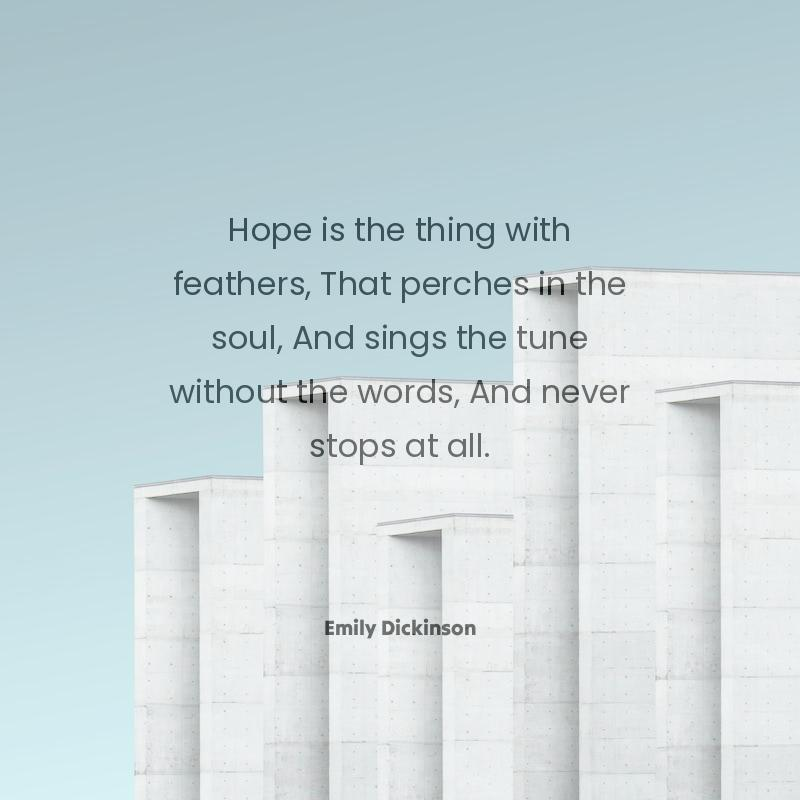
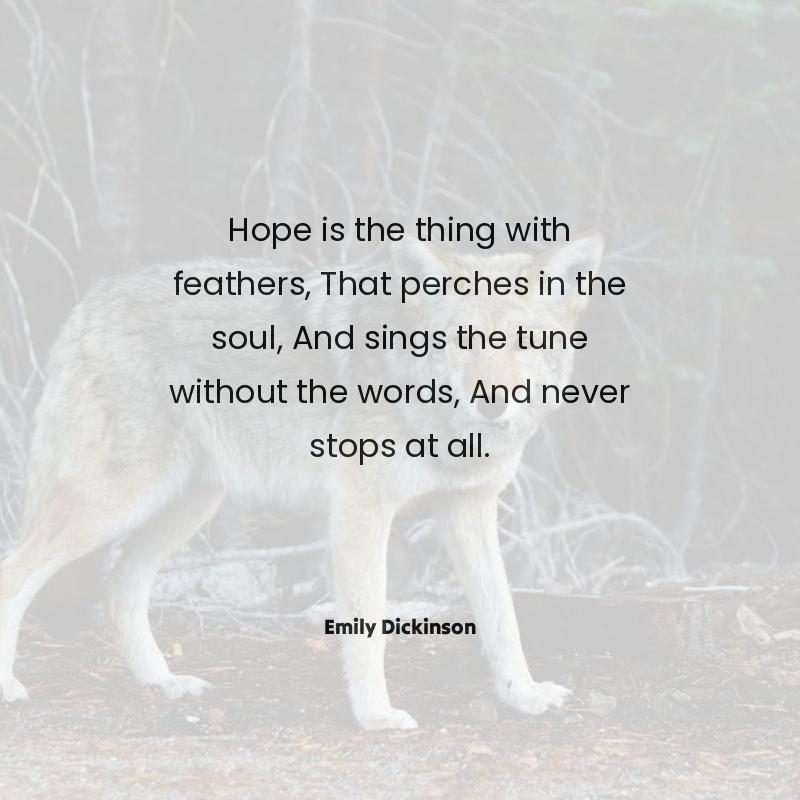
Program updated with def function and alternate to unsplash img link

diff --git a/eng-qt.py b/eng-qt.py
@@ -4,39 +4,43 @@ import random
 import textwrap
 
 # create image object with random background
-img_url = requests.get('https://source.unsplash.com/random/800x800?minimal').url
+img_url = requests.get('https://picsum.photos/800/800').url
 img = Image.open(requests.get(img_url, stream=True).raw)
-    
+
 # function to draw text on image
 def draw_text(text, subtext):
     # get font sizes based on image size
     width, height = img.size
     font_size = int(width / 25)
     subtext_font_size = int(font_size / 1.5)
-	
-    image_bg = Image.new('RGB', (width, height), color = (255, 255, 255))
+    
+    image_bg = Image.new('RGB', (width, height), color=(255, 255, 255))
     
     # set fonts
     font = ImageFont.truetype('./fonts/Poppins-Regular.ttf', font_size)
     subtext_font = ImageFont.truetype('./fonts/TiltWarp-Regular.ttf', subtext_font_size)
-
+    
     # create draw object
     draw = ImageDraw.Draw(image_bg)
-
+    
     # calculate text position to center it horizontally
-    text_width, text_height = draw.textsize(text, font=font)
+    text_bbox = draw.textbbox((0, 0), text, font=font)
+    text_width = text_bbox[2] - text_bbox[0]
+    text_height = text_bbox[3] - text_bbox[1]
     text_x = (width - text_width) / 2
     text_y = (height - text_height) / 2
-
+    
     # calculate subtext position to center it horizontally and put it below the main text
-    subtext_width, subtext_height = draw.textsize(subtext, font=subtext_font)
+    subtext_bbox = draw.textbbox((0, 0), subtext, font=subtext_font)
+    subtext_width = subtext_bbox[2] - subtext_bbox[0]
+    subtext_height = subtext_bbox[3] - subtext_bbox[1]
     subtext_x = (width - subtext_width) / 2
     subtext_y = text_y + text_height + subtext_font_size
-
+    
     # draw text
-    draw.text((text_x, text_y-100), text, font=font, align ="center", spacing=20, fill=(0, 0, 0))
-    draw.text((subtext_x, subtext_y+100), subtext, font=subtext_font, fill=(0, 0, 0))
-
+    draw.text((text_x, text_y - 100), text, font=font, align="center", spacing=20, fill=(0, 0, 0))
+    draw.text((subtext_x, subtext_y + 100), subtext, font=subtext_font, fill=(0, 0, 0))
+    
     return image_bg
 
 # test the function
@@ -55,7 +59,7 @@ image_bg = draw_text(main_text, subtext)
 #image_bg.save('quote2.png')
 
 # blend the text image with the downloaded image
-blended_image = Image.blend(img, image_bg, alpha=0.5)
+blended_image = Image.blend(img, image_bg, alpha=0.75)
 
 # save the final image
 blended_image.save('eng-image.jpg')

diff --git a/tam-qt.py b/tam-qt.py
@@ -4,7 +4,7 @@ import random
 import textwrap
 
 # create image object with random background
-img_url = requests.get('https://source.unsplash.com/random/800x800?nature,minimal').url
+img_url = requests.get('https://picsum.photos/800/800').url
 img = Image.open(requests.get(img_url, stream=True).raw)
     
 # function to draw text on image
@@ -13,8 +13,8 @@ def draw_text(text, subtext):
     width, height = img.size
     font_size = int(width / 25)
     subtext_font_size = int(font_size / 1.5)
-	
-    image_bg = Image.new('RGB', (width, height), color = (255, 255, 255))
+    
+    image_bg = Image.new('RGB', (width, height), color=(255, 255, 255))
     
     # set fonts
     font = ImageFont.truetype('./fonts/TiroTamil-Regular.ttf', font_size)
@@ -22,21 +22,25 @@ def draw_text(text, subtext):
 
     # create draw object
     draw = ImageDraw.Draw(image_bg)
-
+    
     # calculate text position to center it horizontally
-    text_width, text_height = draw.textsize(text, font=font)
+    text_bbox = draw.textbbox((0, 0), text, font=font)
+    text_width = text_bbox[2] - text_bbox[0]
+    text_height = text_bbox[3] - text_bbox[1]
     text_x = (width - text_width) / 2
     text_y = (height - text_height) / 2
-
+    
     # calculate subtext position to center it horizontally and put it below the main text
-    subtext_width, subtext_height = draw.textsize(subtext, font=subtext_font)
+    subtext_bbox = draw.textbbox((0, 0), subtext, font=subtext_font)
+    subtext_width = subtext_bbox[2] - subtext_bbox[0]
+    subtext_height = subtext_bbox[3] - subtext_bbox[1]
     subtext_x = (width - subtext_width) / 2
     subtext_y = text_y + text_height + subtext_font_size
-
+    
     # draw text
-    draw.text((text_x, text_y-100), text, font=font, align ="center", spacing=20, fill=(0, 0, 0))
-    draw.text((subtext_x, subtext_y+100), subtext, font=subtext_font, fill=(0, 0, 0))
-
+    draw.text((text_x, text_y - 100), text, font=font, align="center", spacing=20, fill=(0, 0, 0))
+    draw.text((subtext_x, subtext_y + 100), subtext, font=subtext_font, fill=(0, 0, 0))
+    
     return image_bg
 
 # test the function
